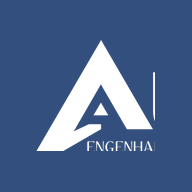
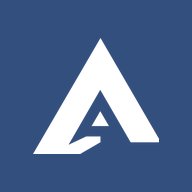
Ícones, botões e textos maiores para uso no celular
Menu inferior com ícones SVG de 32 px, cabeçalho e logo maiores, botões e campos
com área de toque ampliada, miniaturas de fotos maiores e novo ícone do app.
Cache do service worker atualizado para v2.

Claude-Session: https://claude.ai/code/session_016k3icCwT8kKZCzjzMDWULv

diff --git a/app.css b/app.css
@@ -60,3 +60,30 @@ th{background:var(--b);color:#fff;text-align:left;padding:8px 10px;font-size:12p
 .pin input{text-align:center;font-size:26px;letter-spacing:8px}
 @media(min-width:760px){body{padding-bottom:20px}.tabbar{position:static;max-width:980px;margin:0 auto;border:0;background:none}.fab{bottom:24px}}
 .grid2>*{min-width:0}
+
+/* ---- Toque e leitura no celular: ícones, botões e textos maiores ---- */
+html,body{font-size:17px}
+body{padding-top:calc(68px + env(safe-area-inset-top));padding-bottom:calc(92px + env(safe-area-inset-bottom))}
+.top{height:calc(68px + env(safe-area-inset-top));gap:12px}
+.top .logo{height:42px;padding:4px 8px;border-radius:8px}
+.top h1{font-size:20px}
+.icon{font-size:46px;min-width:48px;height:48px;padding:0 6px 6px}
+.tabbar a{padding:10px 0 8px;font-size:14px}
+.tabbar a svg{display:block;width:32px;height:32px;margin:0 auto 3px;fill:currentColor}
+h2{font-size:21px}h3{font-size:17px}
+.btn{font-size:17px;min-height:54px;padding:14px 18px;border-radius:14px}
+.btn.sm{min-height:44px;font-size:16px;padding:9px 14px}
+.fab{font-size:18px;padding:16px 24px}
+label{font-size:15px}
+input,select,textarea{font-size:17px;padding:13px 14px;min-height:50px}
+input[type=checkbox]{min-height:0}
+.seg button{font-size:16px;padding:11px 18px}
+.chip{font-size:14px;padding:3px 11px}
+.mut,.small{font-size:15px}
+.photos{grid-template-columns:repeat(auto-fill,minmax(130px,1fr));gap:10px}
+.ph b{font-size:15px;padding:2px 9px;left:6px;top:6px}
+.ph .gps{font-size:17px;padding:1px 7px;right:6px;bottom:6px}
+.kpi b{font-size:30px}.kpi span{font-size:13px}
+.sw input{width:28px;height:28px}
+table{font-size:15px}th{font-size:13px}
+.toast{font-size:16px}

diff --git a/index.html b/index.html
@@ -11,7 +11,7 @@
 <title>ALL Vistorias</title>
 <link rel="manifest" href="manifest.webmanifest">
 <link rel="icon" href="assets/icon-192.png">
-<link rel="apple-touch-icon" href="assets/icon-192.png">
+<link rel="apple-touch-icon" href="assets/icon-180.png">
 <link rel="stylesheet" href="app.css">
 </head>
 <body>
@@ -22,9 +22,9 @@
 </header>
 <main id="view"></main>
 <nav class="tabbar">
-  <a href="#/" data-nav="obras"><i>▤</i>Obras</a>
-  <a href="#/painel" data-nav="painel"><i>◧</i>Painel</a>
-  <a href="#/ajustes" data-nav="ajustes"><i>⚙</i>Ajustes</a>
+  <a href="#/" data-nav="obras"><svg viewBox="0 0 24 24" aria-hidden="true"><path d="M3 21V9l9-6 9 6v12h-6v-7H9v7z"/></svg>Obras</a>
+  <a href="#/painel" data-nav="painel"><svg viewBox="0 0 24 24" aria-hidden="true"><path d="M4 20V10h4v10zm6 0V4h4v16zm6 0v-7h4v7z"/></svg>Painel</a>
+  <a href="#/ajustes" data-nav="ajustes"><svg viewBox="0 0 24 24" aria-hidden="true"><path d="M19.4 13a7.6 7.6 0 0 0 0-2l2-1.6-2-3.4-2.4 1a7.5 7.5 0 0 0-1.7-1L15 3h-4l-.3 3a7.5 7.5 0 0 0-1.7 1l-2.4-1-2 3.4 2 1.6a7.6 7.6 0 0 0 0 2l-2 1.6 2 3.4 2.4-1a7.5 7.5 0 0 0 1.7 1l.3 3h4l.3-3a7.5 7.5 0 0 0 1.7-1l2.4 1 2-3.4zM13 15.5a3.5 3.5 0 1 1 0-7 3.5 3.5 0 0 1 0 7z" transform="translate(-1 0)"/></svg>Ajustes</a>
 </nav>
 <div id="modal" class="modal" hidden></div>
 <div id="toast" class="toast" hidden></div>

diff --git a/sw.js b/sw.js
@@ -1,7 +1,7 @@
 /* Service worker: guarda o aplicativo no aparelho para funcionar sem internet. */
-const CACHE = 'all-vistorias-v1';
+const CACHE = 'all-vistorias-v2';
 const FILES = ['./', 'index.html', 'app.css', 'app.js', 'db.js', 'report.js', 'manifest.webmanifest',
-  'vendor/docx.iife.js', 'vendor/pdf-lib.min.js', 'assets/logo.png', 'assets/icon-192.png', 'assets/icon-512.png'];
+  'vendor/docx.iife.js', 'vendor/pdf-lib.min.js', 'assets/logo.png', 'assets/icon-180.png', 'assets/icon-192.png', 'assets/icon-512.png'];
 self.addEventListener('install', e => { e.waitUntil(caches.open(CACHE).then(c => c.addAll(FILES)).then(() => self.skipWaiting())); });
 self.addEventListener('activate', e => {
   e.waitUntil(caches.keys().then(ks => Promise.all(ks.filter(k => k !== CACHE).map(k => caches.delete(k)))).then(() => self.clients.claim()));
